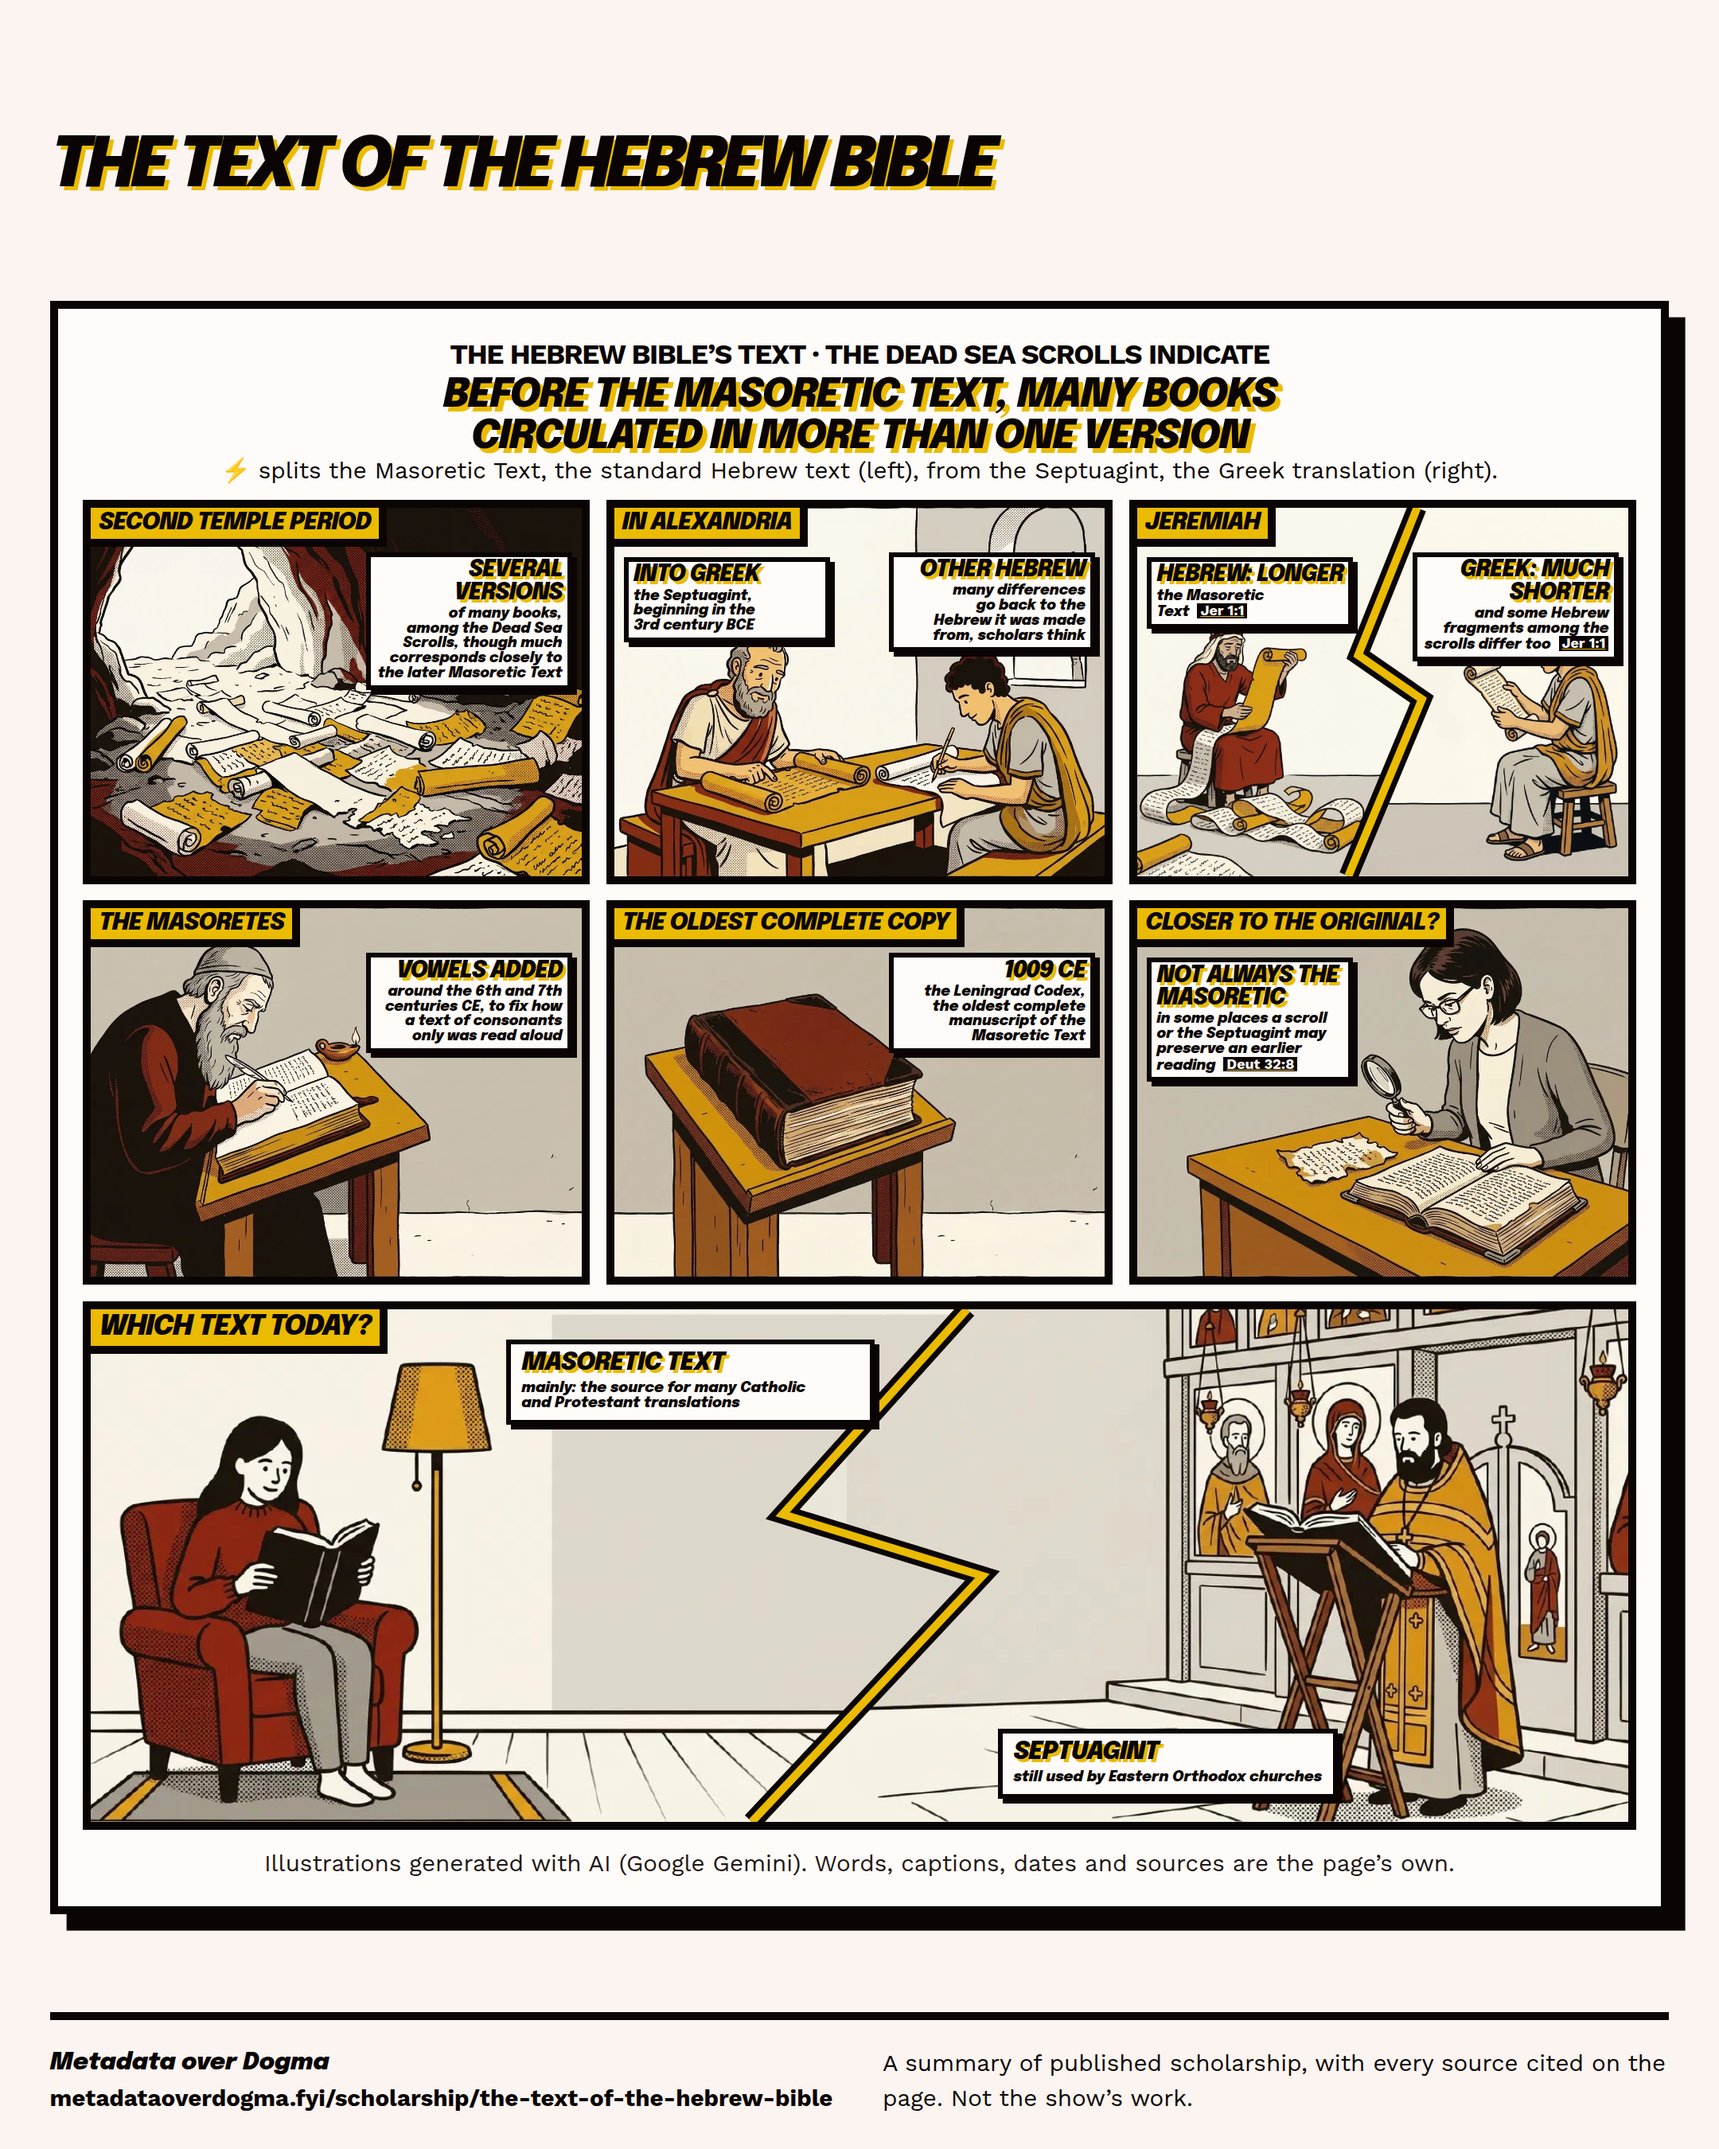
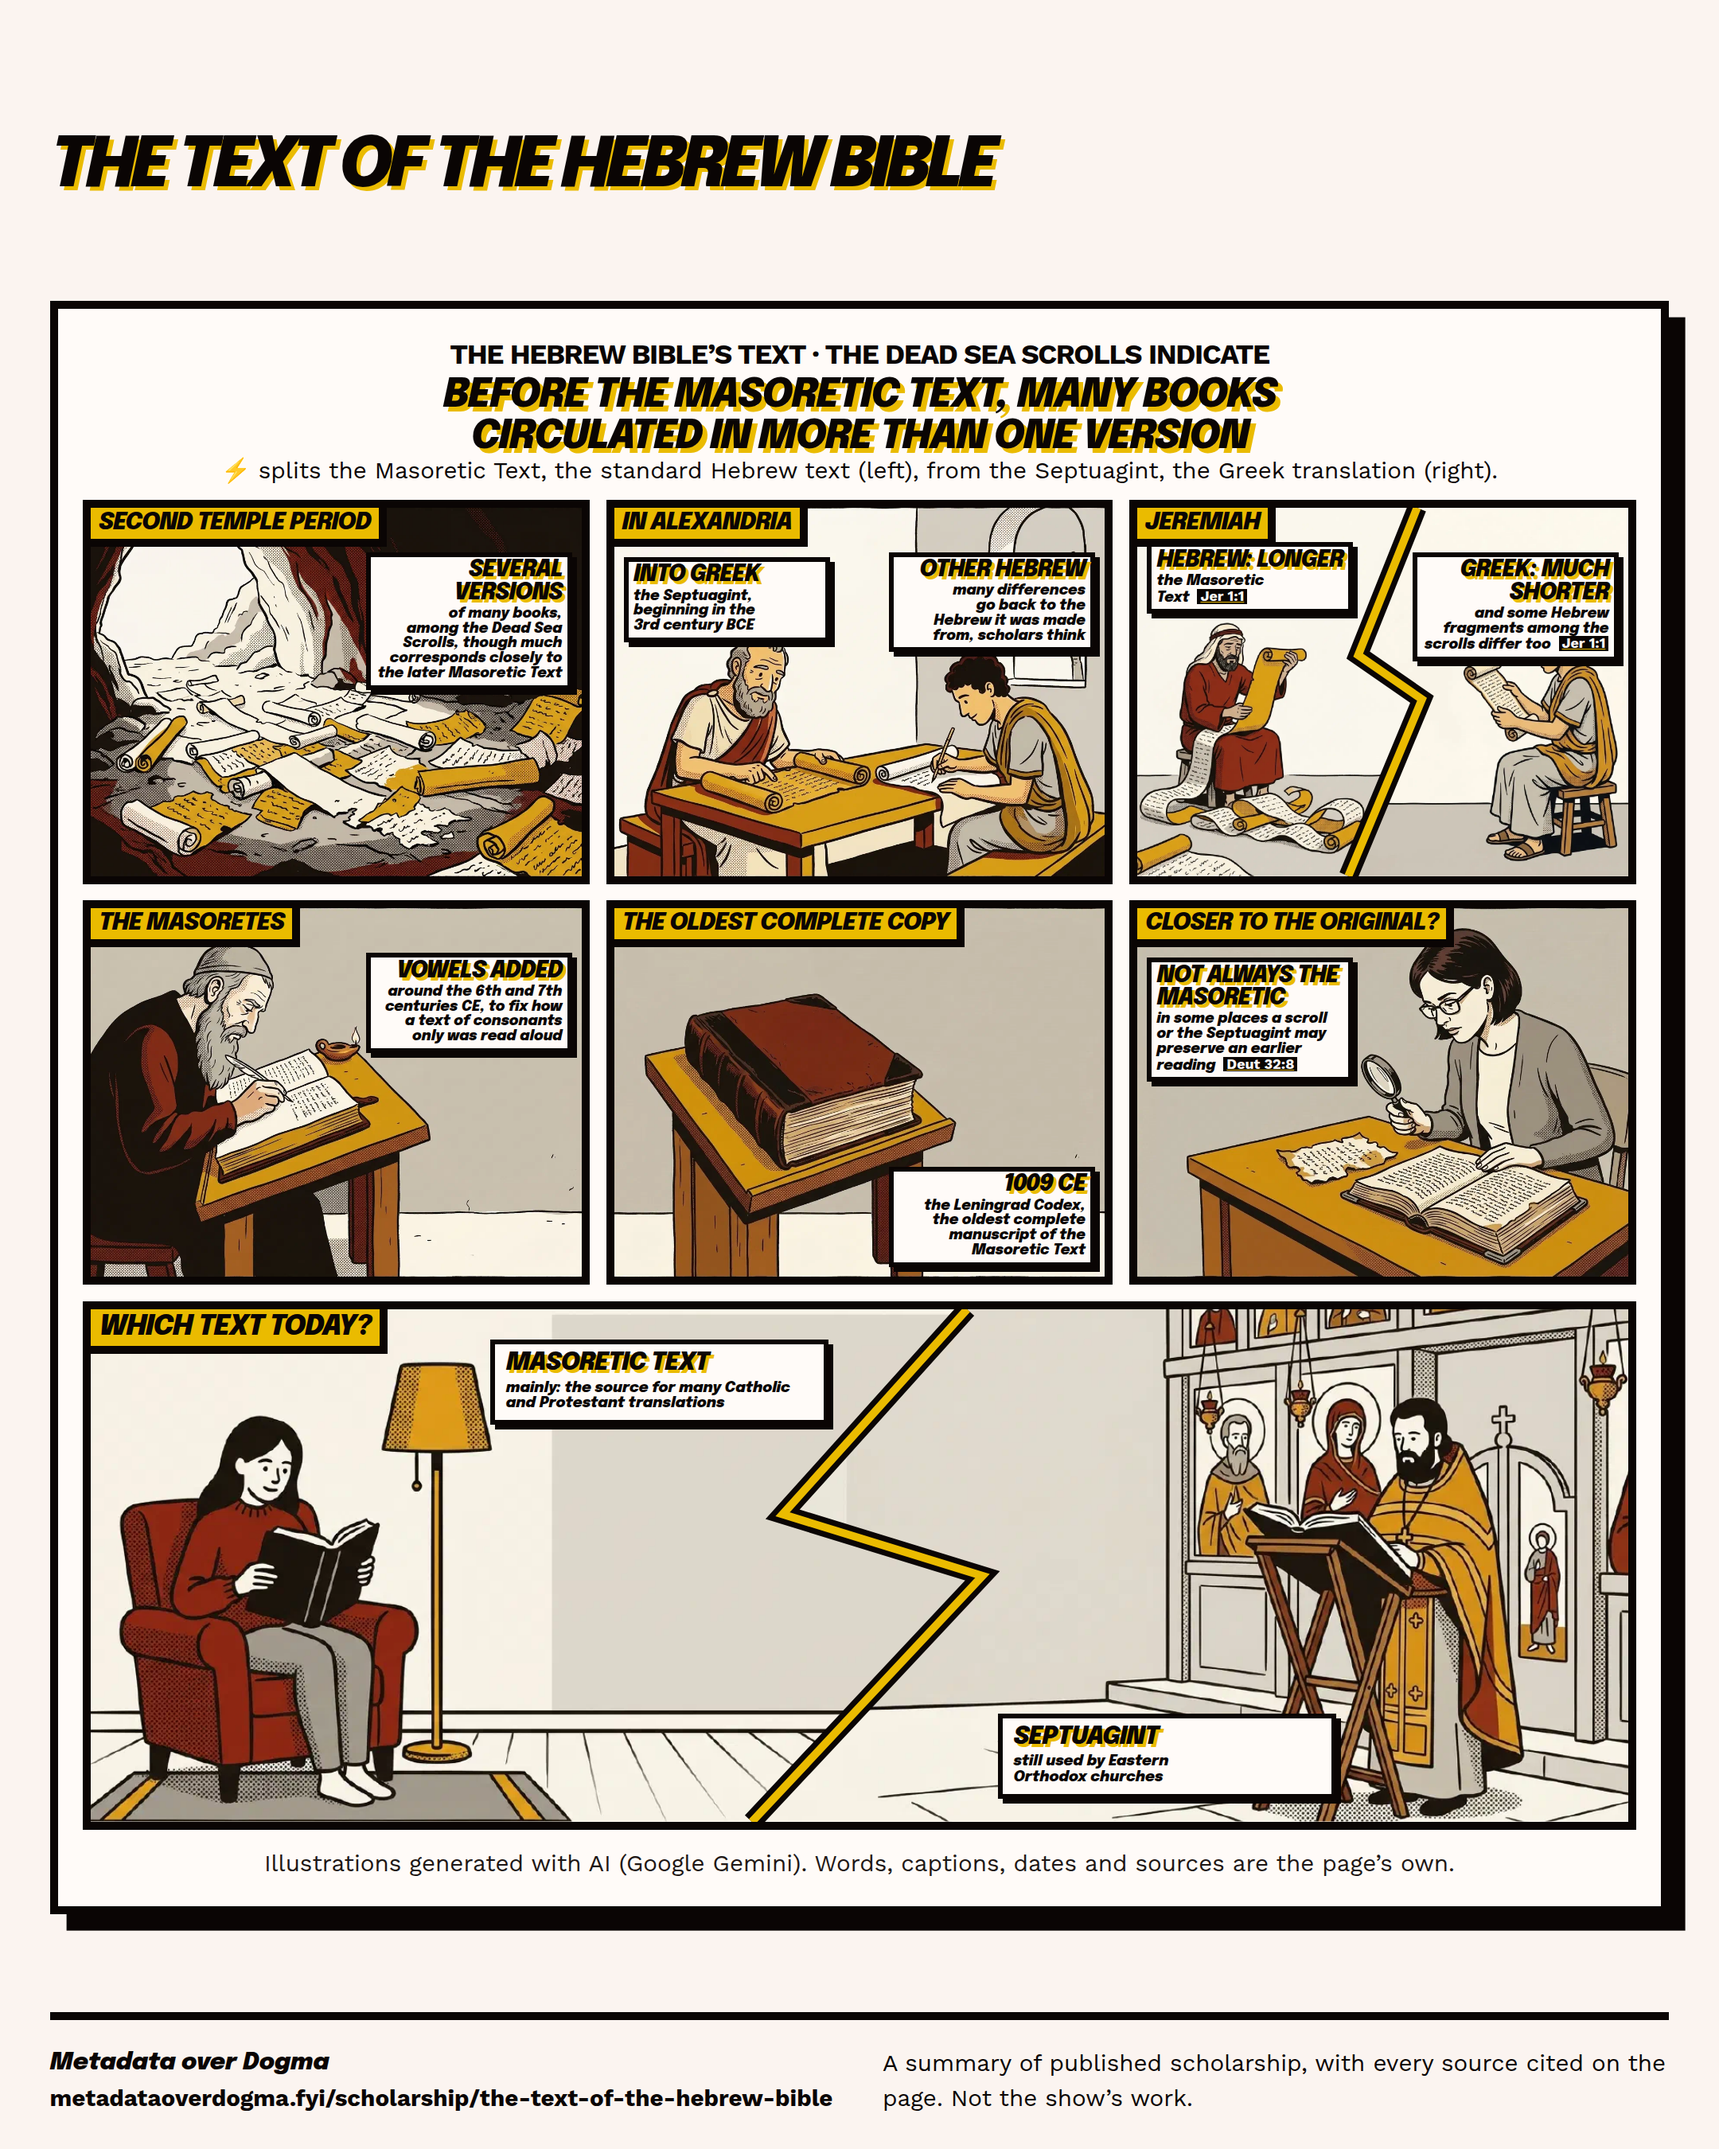
Hebrew Bible infographic: clear faces on the page view, phone plate fixes

diff --git a/hugo/assets/css/scholarship-custom/the-text-of-the-hebrew-bible.css b/hugo/assets/css/scholarship-custom/the-text-of-the-hebrew-bible.css
@@ -341,7 +341,7 @@
 
 /* The wide panel's plates: one per side, each in the open floor or wall beside its figure. */
 .heb-comic__frame--today .comic-plate--a {
-  inset: 2cqi auto auto 27%;
+  inset: 2cqi auto auto 26%;
 }
 
 .heb-comic__frame--today .comic-plate--b {
@@ -349,7 +349,7 @@
 }
 
 .heb-comic__frame--today .comic-plate {
-  max-inline-size: 24%;
+  max-inline-size: 22%;
 }
 
 /* On the poster the wide panel's plates match the narrow panels' smaller lettering. */
@@ -361,28 +361,20 @@
   font-size: 0.95cqi;
 }
 
-/* On the card the Jeremiah plates sit higher and flatter, clear of the scribe's face. */
-.scholarship-share:has(#share-card:target)
-  .heb-comic__frame--jeremiah
-  .comic-plate {
+/* Jeremiah's plates sit high and flat, clear of the two faces. */
+.heb-comic__frame--jeremiah .comic-plate {
   max-inline-size: 46%;
 }
 
-.scholarship-share:has(#share-card:target)
-  .heb-comic__frame--jeremiah
-  .comic-plate--tl {
+.heb-comic__frame--jeremiah .comic-plate--tl {
   inset-block-start: 7cqi;
 }
 
-.scholarship-share:has(#share-card:target)
-  .heb-comic__frame--jeremiah
-  .comic-plate__big {
+.heb-comic__frame--jeremiah .comic-plate__big {
   font-size: 4.2cqi;
 }
 
-.scholarship-share:has(#share-card:target)
-  .heb-comic__frame--jeremiah
-  .comic-plate--tr {
+.heb-comic__frame--jeremiah .comic-plate--tr {
   max-inline-size: 38%;
 }
 
@@ -413,10 +405,6 @@
   .heb-comic__frame--today .comic-plate--b {
     inset: auto 2cqi 2cqi auto;
     text-align: end;
-  }
-
-  .heb-comic__frame--jeremiah .comic-plate--tl {
-    inset-block-start: 11cqi;
   }
 
   .heb-comic__frame--jeremiah .comic-plate__big {

diff --git a/hugo/layouts/partials/scholarship-custom/the-text-of-the-hebrew-bible.html b/hugo/layouts/partials/scholarship-custom/the-text-of-the-hebrew-bible.html
@@ -72,7 +72,7 @@
   "id" "codex" "box" "The oldest complete copy"
   "art" (dict "id" "codex" "alt" "A large bound book lies closed on a wooden reading stand, thick with pages.")
   "plates" (slice
-  (dict "pos" "tr" "big" "1009 CE" "sub" "the Leningrad Codex, the oldest complete manuscript of the Masoretic Text")))
+  (dict "pos" "br" "big" "1009 CE" "sub" "the Leningrad Codex, the oldest complete manuscript of the Masoretic Text")))
   (dict
   "id" "scholar" "box" "Closer to the original?"
   "art" (dict "id" "scholar" "alt" "A present-day scholar compares a torn scroll fragment with an open bound book through a magnifying glass.")
